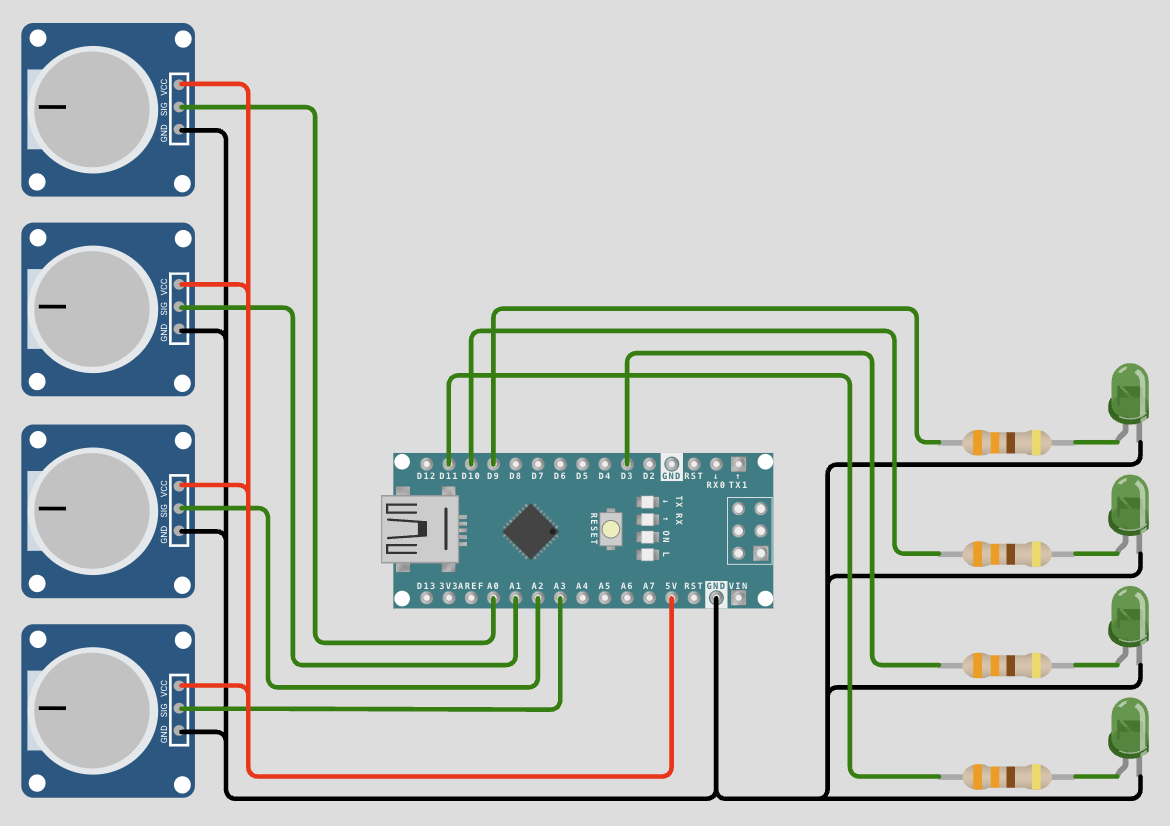
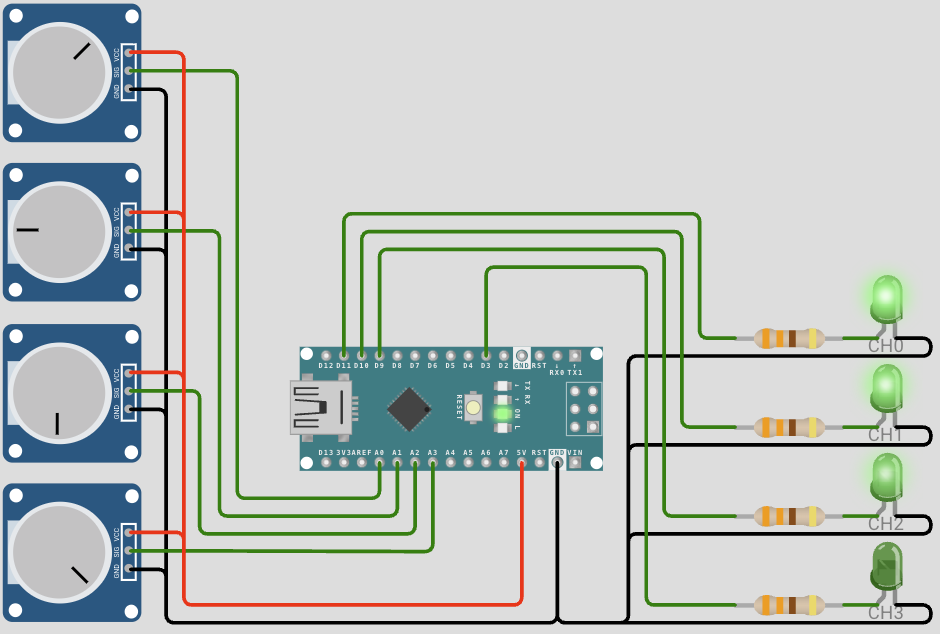
refactor(led-dimmer-4ch): reorder 4-channel PWM pin assignment to D11/D10/D9/D3
- What: changed PIN_PWM in main.cpp from {9, 10, 11, 3} to {11, 10, 9, 3} so channel index 0..3 maps to D11/D10/D9/D3, updated the pin-assignment comment to match, updated the Wokwi diagram (diagram.json, plus regenerated layout.png) to rewire pot1's LED through D11 and pot3's LED through D9 (channels 1 and 3 unchanged), and relabeled the simulated LEDs CH0-CH3 to match the firmware's 0-indexed channel loop
- Why: D11/D10/D9/D3 is the intended final channel-to-pin layout for this board's 4 channels
- How: pin set is unchanged (Timer1's D9/D10 + Timer2's D3/D11, still avoiding Timer0's D5/D6 so all 4 channels share one uniform ~490 Hz), only the array order and the Wokwi verification wiring changed to match
- Benefit: firmware, comment, and Wokwi simulation now agree on which physical pin drives each channel; verified via full rebuild (0 warnings), native tests (6/6), and cppcheck (0 defects)

Changed region(s): [[0.0, 0.0, 1.0, 0.989]]

diff --git a/arduino-nano/led-dimmer-4ch/fw/src/main.cpp b/arduino-nano/led-dimmer-4ch/fw/src/main.cpp
@@ -4,11 +4,11 @@
 
 namespace {
 
-// Pin assignments (see ../KiCad schematic: PWM_1..4 -> D9/D10/D3/D11, RV1..4 -> A0..A3). D9/D10
-// (Timer1) and D3/D11 (Timer2) share the same default ~490 Hz Phase-Correct PWM under
-// analogWrite(), so all 4 channels run at one shared frequency with zero timer register setup.
+// Pin assignments: CH0..3 -> D11/D10/D9/D3, potentiometers -> A0..A3. D9/D10 (Timer1) and D11/D3
+// (Timer2) share the same default ~490 Hz Phase-Correct PWM under analogWrite(), so all 4
+// channels run at one shared frequency with zero timer register setup.
 constexpr uint8_t PIN_POT[pwm::CHANNEL_COUNT] = {A0, A1, A2, A3};
-constexpr uint8_t PIN_PWM[pwm::CHANNEL_COUNT] = {9, 10, 3, 11};
+constexpr uint8_t PIN_PWM[pwm::CHANNEL_COUNT] = {11, 10, 9, 3};
 
 constexpr uint8_t EMA_SHIFT = 3;  // pot smoothing strength
 
